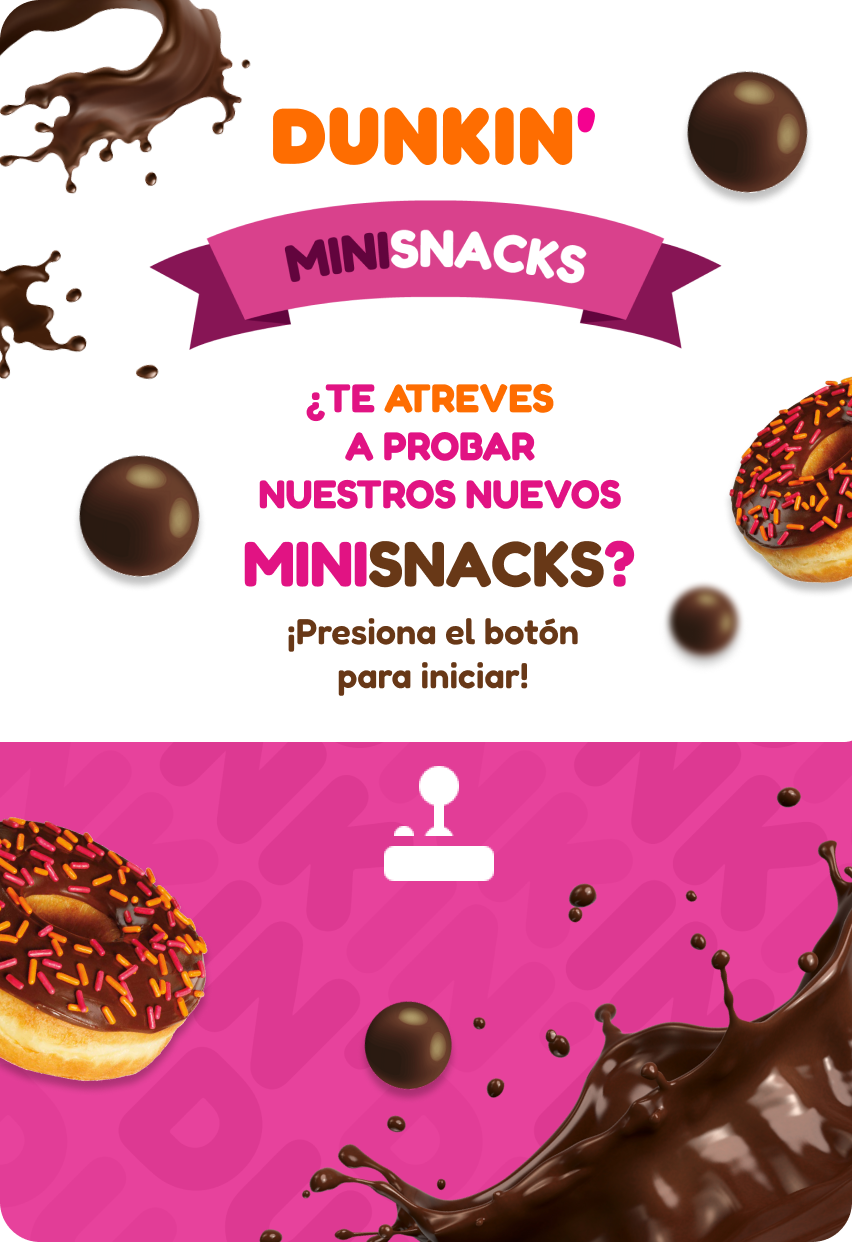
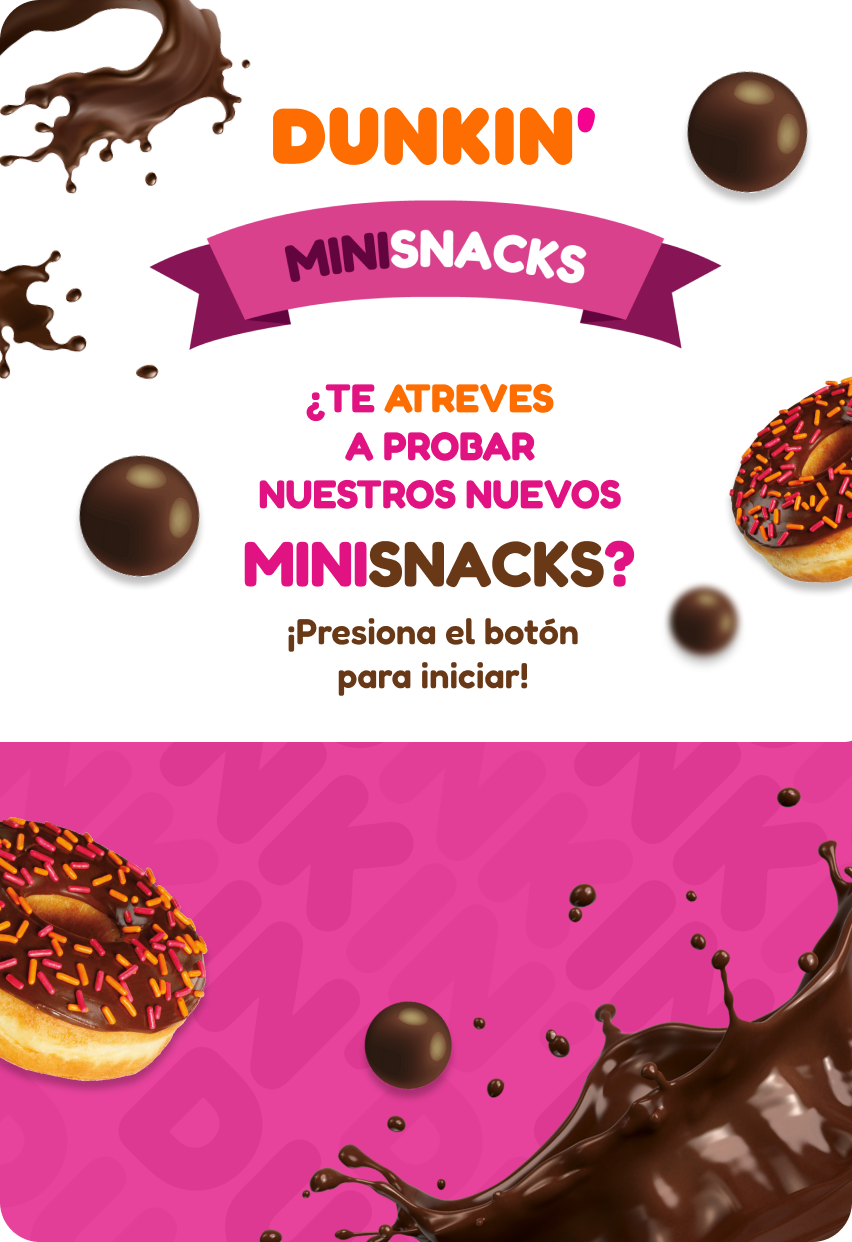
Modified screens

Changed region(s): [[0.4272, 0.6119, 0.5798, 0.7343]]

diff --git a/public-display/sketch.js b/public-display/sketch.js
@@ -1,7 +1,7 @@
 
 const URL = `http://${window.location.hostname}:5050`;
 let socket = io(URL, { path: '/real-time' });
-let screens = 2;
+let screens = 0;
 let score = 0;
 
 //Characters
@@ -10,7 +10,7 @@ let player;
 let trash = [];
 
 //Images
-let startImage, instructionsImage, winnerImage;
+let startImage, instructionsImage, winnerImage, thanksImage, joystick;
 
 //Sounds
 let coin;
@@ -29,6 +29,8 @@ function preload(){
     startImage = loadImage('./assets/Initial.png');
     instructionsImage = loadImage('./assets/Instructions.png');
     winnerImage = loadImage('./assets/Winner.png');
+    thanksImage = loadImage('./assets/Gracias.png');
+    joystick = loadImage('./assets/Joystick.png');
     //Sounds
     // soundFormats('mp3', 'ogg');
     // coin = loadSound('./assets/coinSound');
@@ -44,11 +46,22 @@ function setup() {
 function draw() {
     switch (screens) {
         case 0:
-            image(startImage, 0, 0, windowWidth, windowHeight);
+            background(startImage);
+            if (frameCount % 120 === 0) {
+                tint(255, 0);
+                setTimeout(() => {
+                  noTint();
+                }, 1000);
+              }
+
+            imageMode(CENTER)
+            image(joystick, windowWidth/2, windowHeight/2 + 100, 80, 80);
+            imageMode(CORNER)
             break;
 
         case 1:
             image(instructionsImage, 0, 0, windowWidth, windowHeight);
+
             break;
 
         case 2:
@@ -131,7 +144,7 @@ function draw() {
             break;
 
         case 4:
-            
+            image(thanksImage, 0, 0, windowWidth, windowHeight);
             break;
 
         case 5:
